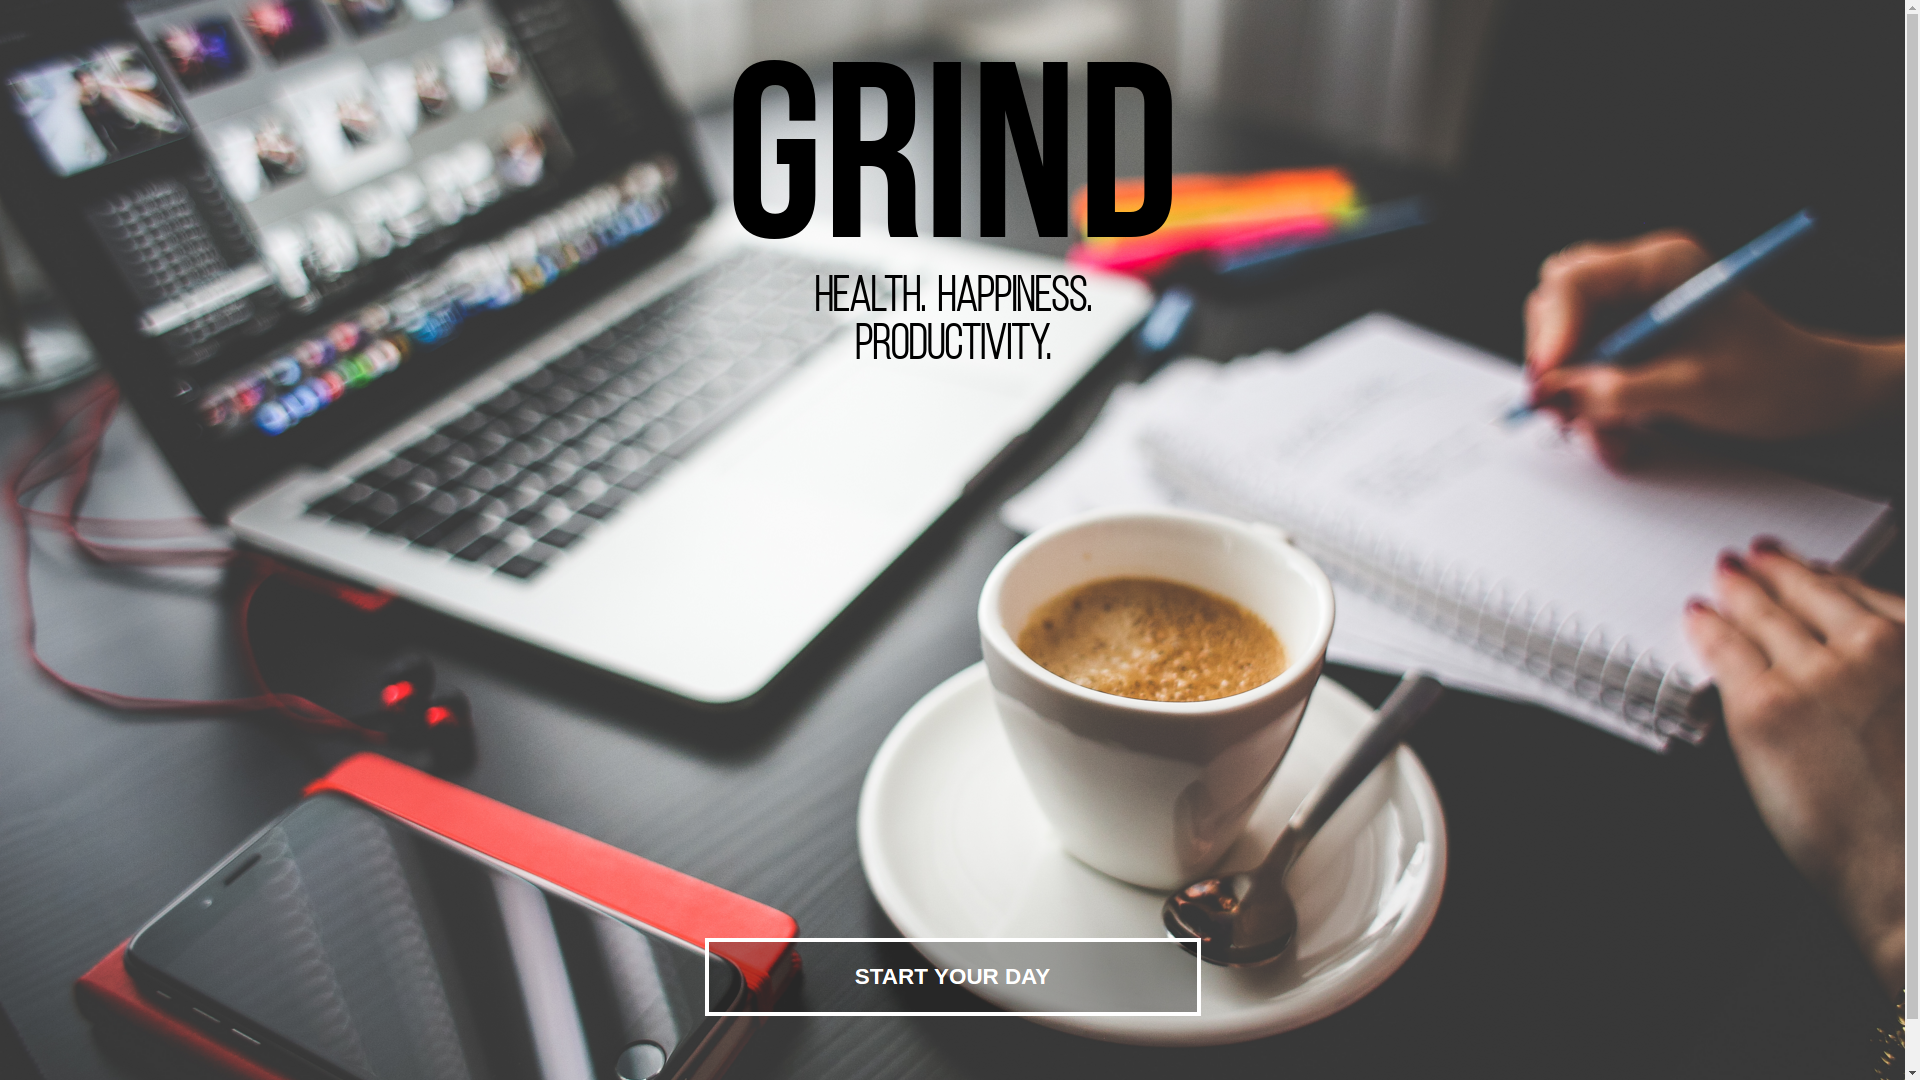
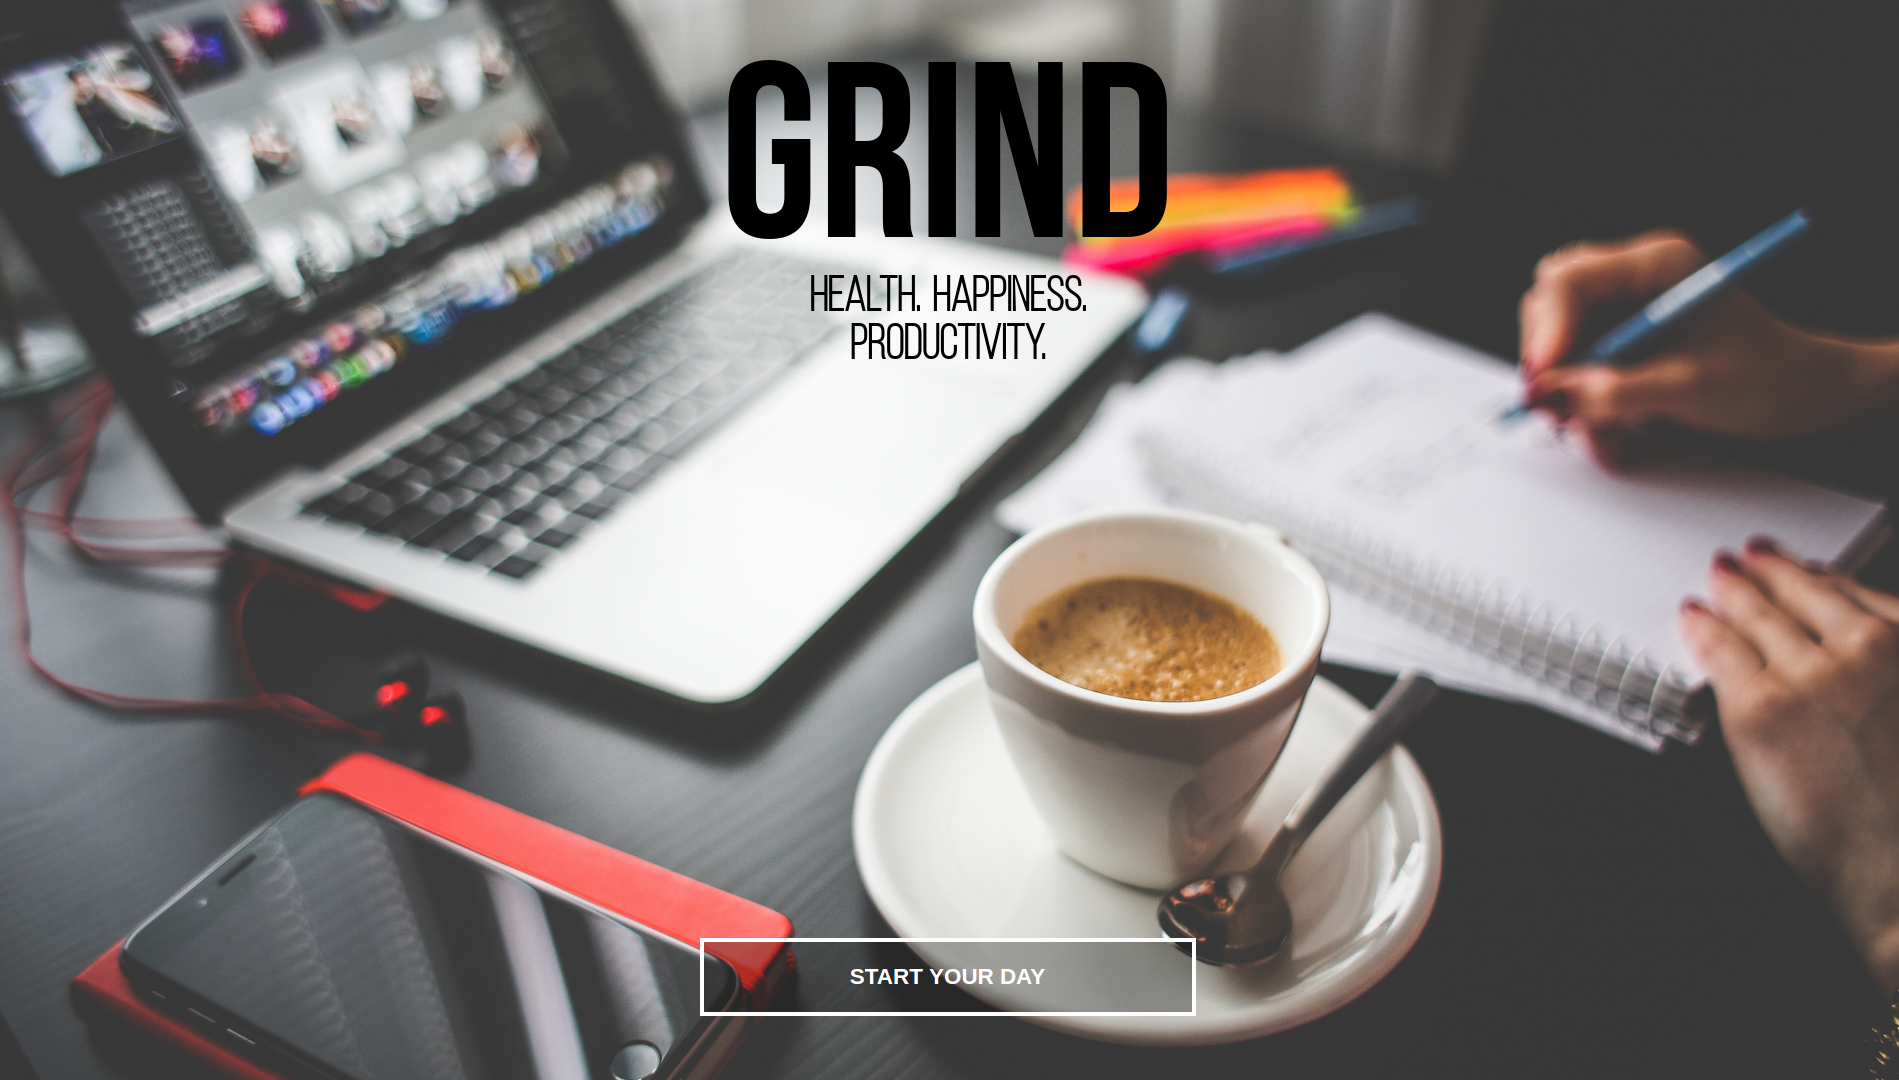
Made header navigate to correct position when sidebar "technologies" section is clicked. Trimmed "Grind" screenshot to cut out scroll bar.

diff --git a/client/partials/landing.html b/client/partials/landing.html
@@ -9,7 +9,7 @@
                     <a href="" ng-click='landingControl.goToAnchor("mystory")' class='dots-menu-anchor'><span class='dots-menu-dot'></span><span class='dots-menu-label'>ABOUT</span></a>
                 </li>
                 <li class='nav-li'>
-                    <a href="" ng-click='landingControl.goToAnchor("tech")' class='dots-menu-anchor'><span class='dots-menu-dot'></span><span class='dots-menu-label'>TECHNOLOGIES</span></a>
+                    <a href="" ng-click='landingControl.goToAnchor("contact-tag")' class='dots-menu-anchor'><span class='dots-menu-dot'></span><span class='dots-menu-label'>TECHNOLOGIES</span></a>
                 </li>
                 <li class='nav-li'>
                     <a href="" ng-click='landingControl.goToAnchor("projects")' class='dots-menu-anchor'><span class='dots-menu-dot'></span><span class='dots-menu-label'>PROJECTS</span></a>
@@ -37,13 +37,13 @@
         <div class='about-me-wrapper'>
             <div class='about-me-container'>
                 <img class='profile-img' src="../static/images/profile.jpg">
-                <p class='about-me-summary'>As a driven wide-eyed Full-Stack Web Developer possessing an obsession for both Javascript and Python, I seek to leverage latest technologies to change the face of the human experience. I possess a constant growth mentality and a hunger to stay current with my craft so I can be the greatest asset possible to those on my team. I spend most of my freetime coding, hiking, or socializing with friends. On a deep level, I believe that we now live in the most exhilarating era in known human history. I just want to contribute to that excitement through my work.</p>
+                <p class='about-me-summary'>As a driven wide-eyed Full-Stack Web Developer possessing an obsession for both Javascript and Python, I seek to leverage latest technologies to change the face of the human experience. I possess a constant growth mentality and a hunger to stay current with my craft so I can be the greatest asset possible to those on my team. I spend most of my freetime coding, hiking, or socializing with friends. On a deep level, I believe that we now live in the most exhilarating era in known human history. I just want to contribute to that excitement <span id='contact-tag'></span>through my work.</p>
             </div>
         </div>
         <div class='tech-wrap'>
             <div class='tech-contain'>
                 <p class='tech-title'>LANGUAGES</p>
-                <div class='icon-wrap' id='tech'>
+                <div class='icon-wrap'>
                     <ul>
                         <li class='icon-li'><img class='icons' src='../static/images/js.jpg'</li>
                         <li class='icon-li'><img class='icons' src='../static/images/python.png'</li>

diff --git a/client/static/stylesheets/styles.css b/client/static/stylesheets/styles.css
@@ -172,6 +172,7 @@
         left: 50%;
         bottom: -2em;
         z-index: 2;
+        cursor: pointer;
     }
 
     .menu-icon{
@@ -335,7 +336,7 @@
         font-family: 'WSLight';
         font-size: .5em;
         text-align: center;
-        color: black;
+        color: white;
     }
 
     .project-bottom-desc{
@@ -353,6 +354,7 @@
         color: white;
         position: relative;
         left: 50%;
+        cursor: pointer;
     }
 
     #btn-three-margin{
